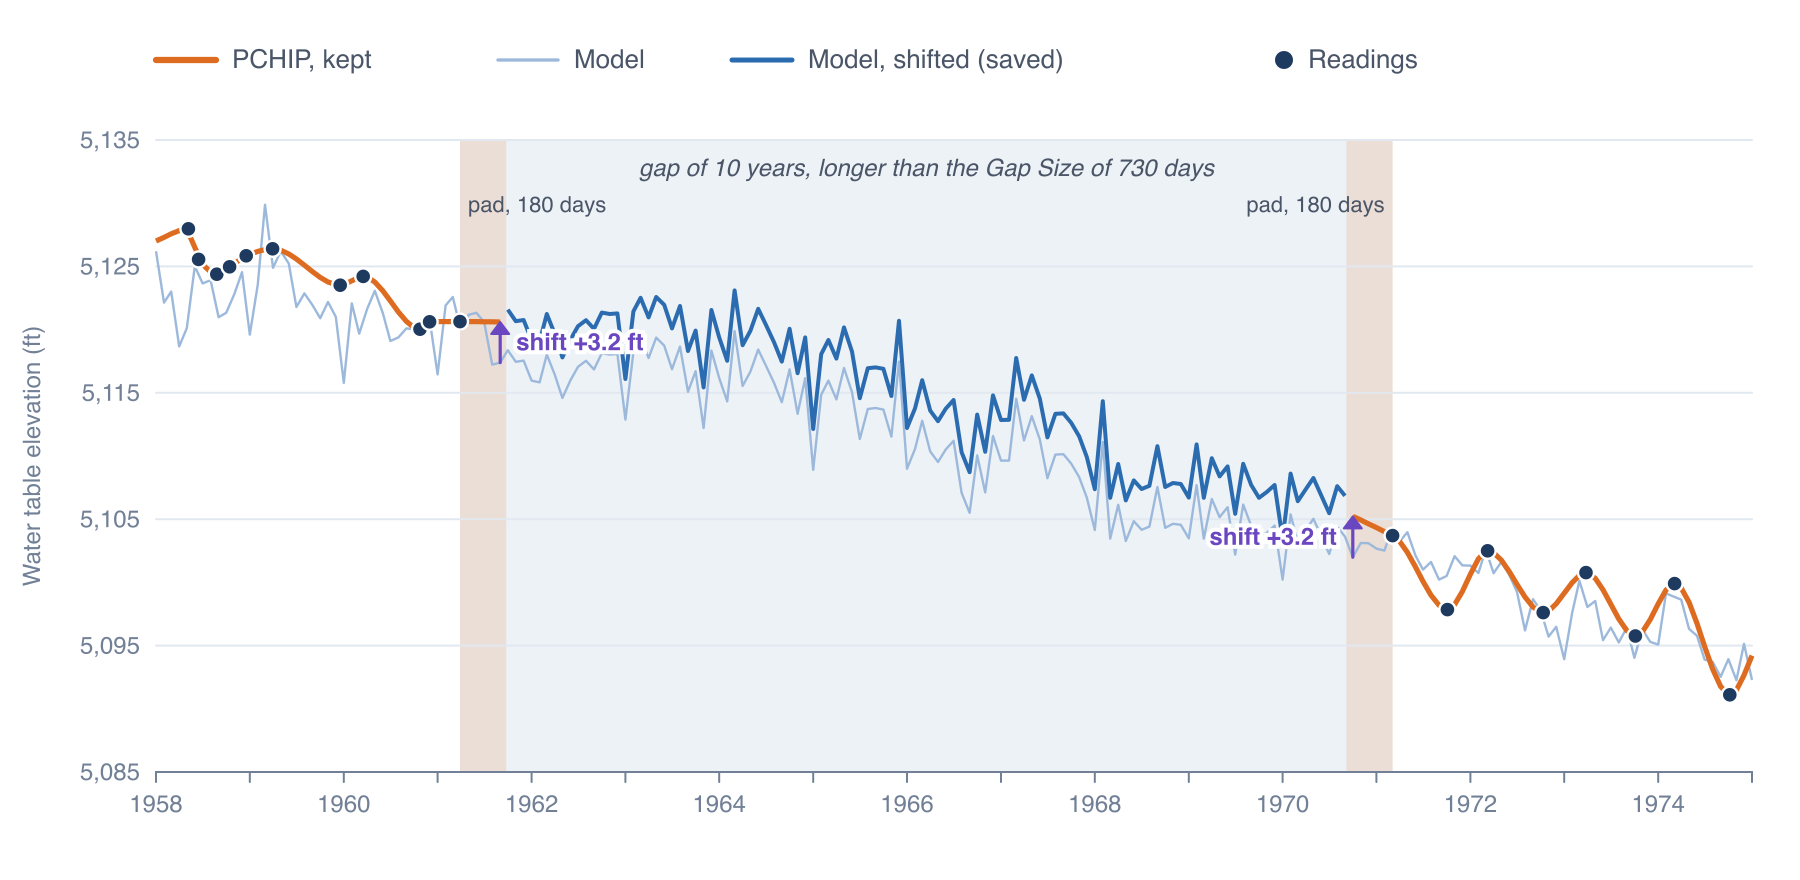
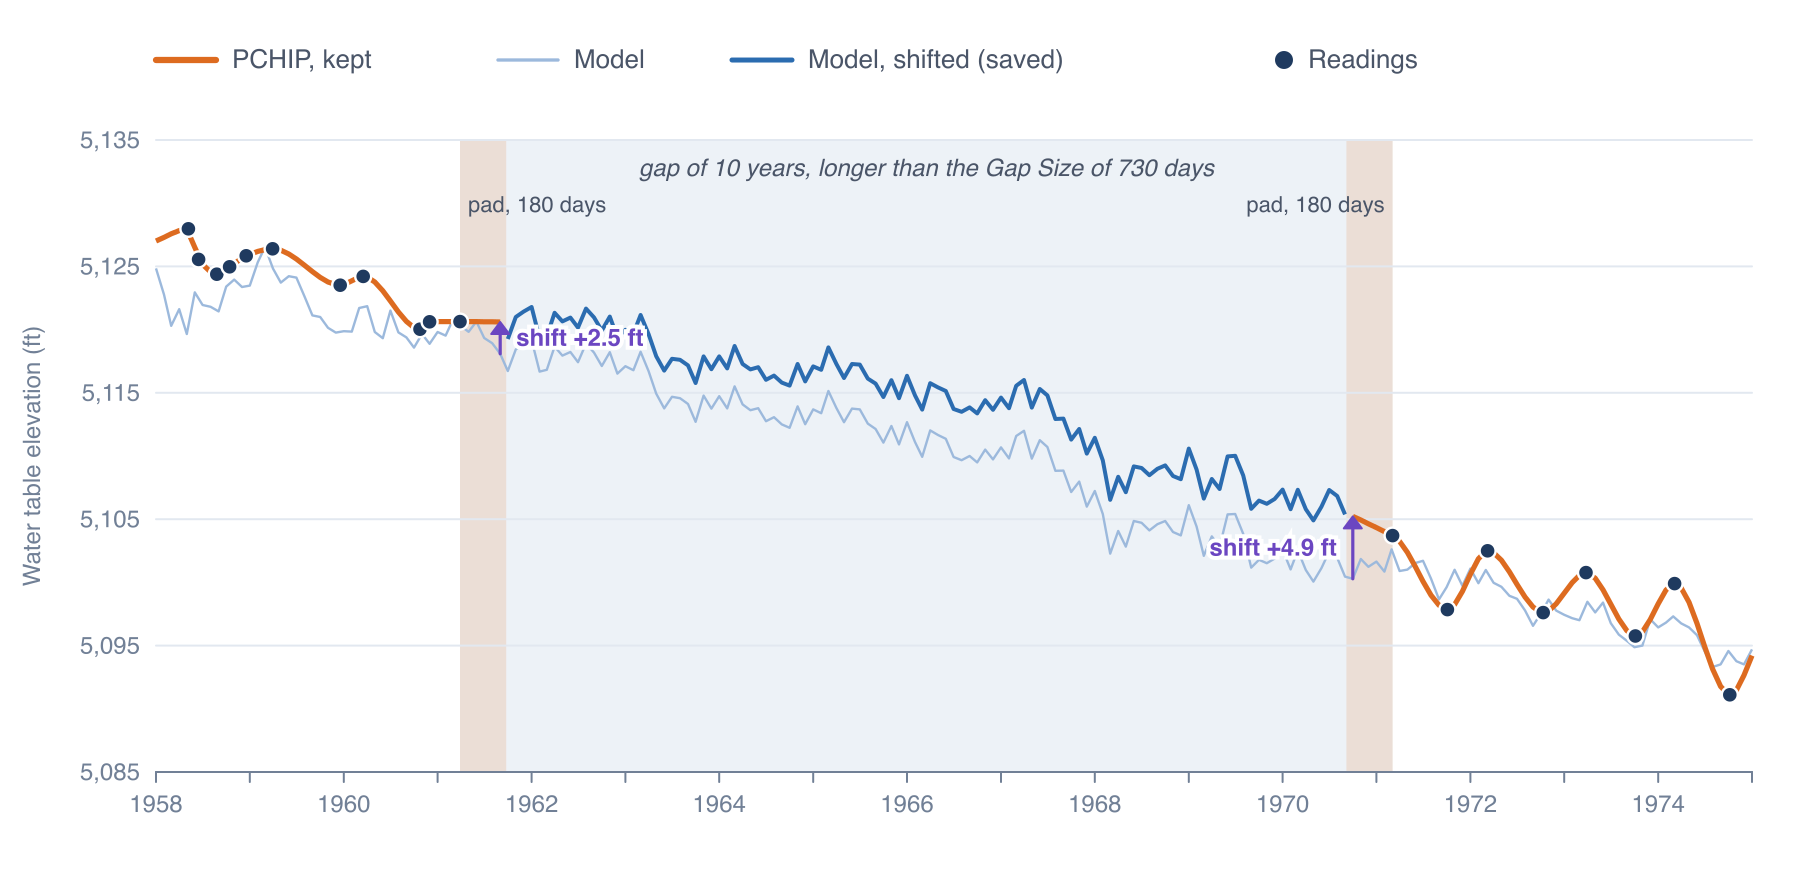
Part 4: each well's model is the average of five ELMs
Follows decision 83a (aquiferx 8bb8124, 9c47777).

- Gaps page: the model is five ELMs averaged; two runs now differ by over
  1.2 ft at half the wells (3.1 ft with one ELM); the hold-out table gives
  the app's model (five averaged and shifted): 48%, 37%, 36% of wells
  closer than PCHIP over 3-, 5- and 10-year stretches inside a record.
- Method page: the average in the ELM's formula; the check fits five too;
  "Each run draws new weights" gives one and five fits; the steps,
  roughness, 3ddc- 1 shifts and Sample Data check table from the rebuilt
  models.
- Results and running pages: 3ddc- 1's new R², RMSE and check; Get Info's
  fit count; the run now takes a little over two minutes on Escalante.
- Gap figure and the two chart screenshots from the rebuilt model.

Claude-Session: https://claude.ai/code/session_01Vb5FMgUjLz9pmhJvE6MAsm

Changed region(s): [[0.0933, 0.2761, 0.84, 0.675], [0.84, 0.675, 0.9333, 0.7364], [0.9333, 0.7364, 0.9956, 0.767]]

diff --git a/docs/aquiferx/imputation/method.en.md b/docs/aquiferx/imputation/method.en.md
@@ -89,11 +89,15 @@ $$
 solved in one step by Cholesky factorization. The penalty *λ* keeps the weights small. Without it, a unit that is active in only one or
 two training months but in many months of a gap could take a large weight to fit those months and send the gap's values far off.
 
-The fitted model gives a value for every month of the span, which is put back in the well's units:
+The fitted ELM gives a value for every month of the span, which is put back in the well's units. The app fits five ELMs to each
+well, each with its own random **W**<sub>j</sub> and **b**<sub>j</sub> and so its own **β**<sub>j</sub>, and the well's model is their
+average:
 
 $$
-e(m) = \mu + \sigma\, \mathbf{h}(m)^\mathsf{T} \boldsymbol{\beta}
+e(m) = \mu + \frac{\sigma}{5} \sum_{j=1}^{5} \mathbf{h}_j(m)^\mathsf{T} \boldsymbol{\beta}_j
 $$
+
+Averaging narrows how much the model changes from one run to the next (see [Each run draws new weights](#each-run-draws-new-weights)).
 
 The Python notebook the app's method comes from left the last two hidden units out of the penalty. Since November 2026 the app
 penalizes every unit, because that pair now and then sent a well far off: refitting one Escalante well 500 times, the pair sent it
@@ -111,22 +115,23 @@ v(m) = \begin{cases} p(m) & \text{in a training month} \\ e(m) + d_a + \dfrac{m 
 $$
 
 with *m* − *a* and *b* − *a* counted in months. Before a well's first training month and after its last there is a training month on
-one side only, and the shift is that side's *d* throughout. Within the run the model keeps its rises and falls; the shift moves it as
-a whole, so that it starts where the curve leaves off and ends where the curve picks up. At (C-36-16) 3ddc- 1 the model ran 3.2 ft
-below the curve in September 1961 and again in October 1970, so the nine years between are raised by 3.2 ft. In the well's 1990s gap
-it ran 4.7 ft above the curve at the start and 0.5 ft above at the end, so that stretch is lowered by 4.7 ft, easing to 0.5 ft.
+one side only, and the shift is that side's *d* throughout. Within the run the model keeps its rises and falls; the shift moves it as a
+whole, so that it starts where the curve leaves off and ends where the curve picks up. At (C-36-16) 3ddc- 1 the model ran 2.5 ft below
+the curve in September 1961 and 4.9 ft below it in October 1970, so the nine years between are raised by 2.5 ft at the start, growing
+to 4.9 ft at the end. In the well's 1990s gap it ran 2.8 ft above the curve at the start and 0.5 ft above at the end, so that stretch
+is lowered by 2.8 ft, easing to 0.5 ft.
 
 Without the shift the series would step by the model's error wherever it passes between PCHIP and the ELM: at the 396 such places in
-the Escalante model, by 1.3 ft at the median and up to 38 ft. With it, the change at those places is the model's own change over
-that month, a median of 0.7 ft and at most 17 ft. In the hold-out test (see
+the Escalante model, by 1.2 ft at the median and up to 36 ft. With it, the change at those places is the model's own change over
+that month, a median of 0.5 ft and at most 15 ft. In the hold-out test (see
 [Gaps in Well Records](gaps.md#how-close-the-filled-values-come)) the shift also brought the filled values a little closer to the
 hidden readings, for every length of hidden stretch.
 
-Across Escalante the model's line is rougher than the PCHIP curve: the median change from one month to the next is 0.3 ft for the
-model and 0.2 ft for PCHIP, and at 3ddc- 1 it is 1.6 ft for the model, the zigzag in the figure above. Most of it comes from the
+Across Escalante the model's line is rougher than the PCHIP curve: the median change from one month to the next is 0.24 ft for the
+model and 0.17 ft for PCHIP, and at 3ddc- 1 it is 0.8 ft for the model, the zigzag in the figure above. Most of it comes from the
 twelve month indicators, which let the model draw a pattern over the calendar year and repeat it every year, and from the month's own
-soil moisture. Refitting the Escalante wells without the month indicators halves the model's typical change from one month to the
-next, and without the month's soil moisture as well it is smoother than the PCHIP curve. In the hold-out test, leaving out the month
+soil moisture. Refitting the Escalante wells with a single ELM each and without the month indicators halves the model's typical
+change from one month to the next, and without the month's soil moisture as well it is smoother than the PCHIP curve. In the hold-out test, leaving out the month
 indicators brought the filled values closer to the hidden readings only over 10-year stretches inside a record, and left them further
 off in the other tests.
 
@@ -144,8 +149,8 @@ $$
 
 They measure how closely the model reproduces the months it learned from. With 500 hidden units it follows even a short record
 closely: in Escalante, the 44 wells with fewer than two years of training months have a median R² of 0.93, and the four trained on 6 months
-reach 0.91 to 0.95, with RMSEs of 0.04 to 0.12 ft. A high R² says little about the values in the gaps: on readings hidden from the
-fit, the same models missed by two to three times their RMSE.
+reach 0.93, with RMSEs of 0.03 to 0.15 ft. A high R² says little about the values in the gaps: on readings hidden from the
+fit, the same models missed by about twice their RMSE or more.
 
 ## The hidden-readings check
 
@@ -155,8 +160,8 @@ Each run tests every well it can on readings left out of the fit:
    if that is longer, so that the model still fills at least a year of it.
 2. The well is checked when it has at least 5 readings before the stretch and 2 after it, and at least 3 of the hidden readings fall
    in months the model fills.
-3. The training months are found from the other readings, as above, and a new ELM is fitted to them, with its own random weights,
-   and shifted as in the saved series.
+3. The training months are found from the other readings, as above, and a new model is fitted to them, again the average of five
+   ELMs with their own random weights, and shifted as in the saved series.
 4. Each hidden reading in the months the model fills is compared with the shifted model, read on a straight line between the two
    months around it, and with the PCHIP curve through the other readings, which crosses the hidden stretch.
 
@@ -173,10 +178,10 @@ Sample Data models:
 
 | Aquifer | Wells modeled | Wells checked | Model closer | Median RMSE, model | Median RMSE, PCHIP |
 |---|--:|--:|--:|--:|--:|
-| Escalante Valley-Beryl-Enterprise | 159 | 72 | 25 | 3.75 ft | 2.64 ft |
-| East Shore Area | 163 | 89 | 30 | 4.17 ft | 3.78 ft |
-| Central Sevier Valley | 80 | 20 | 10 | 2.00 ft | 1.87 ft |
-| Williamson | 21 | 15 | 5 | 2.70 ft | 2.37 ft |
+| Escalante Valley-Beryl-Enterprise | 159 | 72 | 28 | 3.51 ft | 2.64 ft |
+| East Shore Area | 163 | 89 | 33 | 4.10 ft | 3.78 ft |
+| Central Sevier Valley | 80 | 20 | 11 | 1.64 ft | 1.87 ft |
+| Williamson | 21 | 15 | 5 | 2.81 ft | 2.37 ft |
 
 The check covers the middle of a record, where PCHIP is the alternative. How the model does past the end of a record, where it has
 to extend the readings, is in the test in [Gaps in Well Records](gaps.md#how-close-the-filled-values-come). The check's fit draws its
@@ -186,8 +191,10 @@ own weights, so the result is a sample of how the saved model behaves, and a sec
 
 An ELM draws **W** and **b** at random and never adjusts them; only **β** is fitted, in one step. Every run draws them afresh, so the
 same aquifer and settings give a different model of each well, with somewhat different values in the gaps and slightly different R²
-and RMSE. Between two runs on Escalante, the median change in a gap month was 0.2 ft; the largest change at each well was over
-3.1 ft at half the wells and over 12 ft at one in ten.
+and RMSE. The average of five ELMs varies less than one ELM does. Between two runs on Escalante with one ELM per well, the median
+change in a gap month was 0.2 ft, and the largest change at each well was over 3.1 ft at half the wells and over 12 ft at one in
+ten. With the average of five, as the app now fits, the median change in a gap month was 0.09 ft, and the largest change at each
+well over 1.2 ft at half the wells and over 5.6 ft at one in ten.
 
 ## References
 

diff --git a/docs/aquiferx/imputation/gaps.en.md b/docs/aquiferx/imputation/gaps.en.md
@@ -21,14 +21,15 @@ change from one map to the next comes from wells joining and leaving.
 **Impute Gaps** gives each well of an aquifer a series of monthly water levels covering December 1957 to the latest month of the soil
 moisture record. Where the readings are close together, a month's value is the PCHIP curve on the first of the month. In a gap longer
 than a limit you set, two years to start with, and before a well's first reading and after its last, the value comes from a model of
-the well: an extreme learning machine (ELM), a kind of neural network that trains in a single step. Each well gets its own, trained on
-the well's record to relate its water level to soil moisture in the aquifer's area, the year and the month. In each stretch it fills,
+the well: an extreme learning machine (ELM), a kind of neural network that trains in a single step. Each well gets its own, the
+average of five ELMs trained on the well's record to relate its water level to soil moisture in the aquifer's area, the year and the
+month. In each stretch it fills,
 the model is shifted to meet the PCHIP curve at both ends, so the series carries on without a jump where one hands over to the other.
 
 An ELM trains in one step because the weights of its hidden layer are drawn at random and only its output is fitted. Each run draws
 new weights and so builds a new model of each well. Two runs give the same values in the months that follow PCHIP and different values
-in the gaps: between two runs on Escalante, half the wells changed by more than 3.1 ft somewhere in their gaps, and one in ten by more
-than 12 ft.
+in the gaps, and averaging five ELMs narrows the difference: between two runs on Escalante, half the wells changed by more than 1.2 ft
+somewhere in their gaps, and one in ten by more than 5.6 ft, where a single ELM per well gave 3.1 ft and 12 ft.
 
 The series are saved together as a model of the aquifer, which you can open on the chart (see [Reading the Results](results.md)) and
 use in place of the readings for water table maps (Part 5). In Escalante the model covers 159 wells, and almost three quarters of
@@ -52,20 +53,19 @@ record or from the end, ran the method on the rest, and measured the RMSE of the
 middle of a record the comparison is the PCHIP curve across the hidden stretch; at the end, where there is no curve, it is the last
 reading held level.
 
-| Hidden stretch | Wells | PCHIP across it, or the last reading | The model, shifted | Wells where the model came closer |
+| Hidden stretch | Wells | PCHIP across it, or the last reading | The model | Wells where the model came closer |
 |---|--:|--:|--:|--:|
-| 3 years, middle of the record | 217 | 2.1 ft | 2.7 ft | 44% |
+| 3 years, middle of the record | 217 | 2.1 ft | 2.6 ft | 48% |
 | 5 years, middle | 202 | 2.9 ft | 3.6 ft | 37% |
-| 10 years, middle | 163 | 3.4 ft | 5.2 ft | 31% |
-| 3 years, end of the record | 243 | 3.4 ft | 3.2 ft | 42% |
-| 5 years, end | 241 | 4.2 ft | 4.9 ft | 45% |
-| 10 years, end | 203 | 6.4 ft | 6.6 ft | 43% |
+| 10 years, middle | 163 | 3.4 ft | 4.8 ft | 36% |
+| 3 years, end of the record | 243 | 3.4 ft | 3.1 ft | 43% |
+| 5 years, end | 241 | 4.2 ft | 4.8 ft | 46% |
+| 10 years, end | 203 | 6.4 ft | 6.6 ft | 45% |
 
-The RMSEs are medians over the wells. Inside a record, the PCHIP curve came closer to the hidden readings than the model at most
+The model is the app's: five ELMs averaged and shifted to meet the curve. The RMSEs are medians over the wells. Inside a record, the PCHIP curve came closer to the hidden readings than the model at most
 wells, and more so the longer the stretch; past the end of a record, the model did about as well as holding the last reading. Central
 Sevier Valley was the exception: there the two came out about even, and with 10-year stretches the model was closer. A heavier
-penalty λ, fewer hidden units, the average of several runs, and a plain linear fit of the same inputs all left the model short of
-PCHIP inside the record.
+penalty λ, fewer hidden units and a plain linear fit of the same inputs all left the model short of PCHIP inside the record.
 
 These are four aquifers, three of them in Utah, and the model may do better where water levels follow wet and dry years more closely.
 The check each run makes gives the same comparison for your own wells.
@@ -82,13 +82,13 @@ after its last, the model stretches a relationship learned from other years, som
 
 - **R² and RMSE score the model on the months it was trained on.** They compare it with the PCHIP values it was fitted to, so they
   show how well it reproduces those months (see [How the Model Works](method.md#the-fit-statistics)). With 500 adjustable weights it
-  can reproduce almost any record: in Escalante the median R² is 0.957, and wells with only 6 months of record score above 0.9.
-  On readings they had not seen, the same fits missed by two to three times their RMSE. The hidden-readings check measures that.
+  can reproduce almost any record: in Escalante the median R² is 0.955, and wells with only 6 months of record score above 0.9.
+  On readings they had not seen, the same fits missed by about twice their RMSE or more. The hidden-readings check measures that.
 - **The model's line zigzags.** Its twelve month inputs let it draw a seasonal pattern, which it repeats in every year it fills, and
   the month's own soil moisture adds swings of its own. More than half of the years in Escalante's modeled wells have a single
-  reading, so most records hold little of a real seasonal cycle for it to learn. Its value changes about twice as much from one month
-  to the next as the PCHIP curve's; refitted without the month inputs it is half as rough, though in most tests no closer to the
-  hidden readings. A moving average, on the chart or in Spatial Analysis, evens it out.
+  reading, so most records hold little of a real seasonal cycle for it to learn. Its value changes about 1.4 times as much from one month
+  to the next as the PCHIP curve's. A single ELM refitted without the month inputs is half as rough, though in most tests no closer
+  to the hidden readings. A moving average, on the chart or in Spatial Analysis, evens it out.
 
 Treat the filled values as estimates. Look at the hidden-readings check in Get Info, and on the chart for the wells that matter most
 to you; where PCHIP came closer, maps from the readings may serve better than maps from the model. Compare the model with the readings

diff --git a/docs/aquiferx/imputation/results.en.md b/docs/aquiferx/imputation/results.en.md
@@ -24,7 +24,7 @@ blue line runs along the red one, you can see how closely the model follows the 
 model's guess.
 
 (C-36-16) 3ddc- 1 in Escalante was read 82 times from 1953 to 2026, with gaps from 1961 to 1971 and from 1992 to 1996. Its model has
-an R² of 0.996 and an RMSE of 2.24 ft, and over the training months the blue line keeps close to the red, a few feet either side,
+an R² of 0.998 and an RMSE of 1.75 ft, and over the training months the blue line keeps close to the red, a few feet either side,
 rougher than the curve through the readings.
 
 ## The saved series
@@ -34,7 +34,8 @@ rougher than the curve through the readings.
 With **Combined** checked, the chart shows the series the model saved: red where it follows PCHIP and blue where it takes the ELM,
 shifted to meet the red at each end (see [How the Model Works](method.md#the-saved-series)). At 3ddc- 1 the blue fills October 1961 to
 September 1970 and October 1992 to September 1995, and the months of 2026 after the final reading. Next to the blue line of the
-other view, the 1960s stretch is raised by 3.2 ft, and the 1990s stretch lowered by 4.7 ft at its start, easing to 0.5 ft at its end.
+other view, the 1960s stretch is raised by 2.5 ft at its start, growing to 4.9 ft at its end, and the 1990s stretch lowered by
+2.8 ft, easing to 0.5 ft.
 
 The chart's controls change while a model is on the chart:
 
@@ -52,14 +53,14 @@ made the model, with a line for each well and its check.
 ## The hidden-readings check
 
 The last item in the band compares the model with readings it never saw (see
-[How the Model Works](method.md#the-hidden-readings-check)). For 3ddc- 1 it reads *Hidden readings: model 3.63 · PCHIP 2.04 ft*:
+[How the Model Works](method.md#the-hidden-readings-check)). For 3ddc- 1 it reads *Hidden readings: model 2.31 · PCHIP 2.04 ft*:
 the run hid five years of the well's record, the five readings from March 1979 to March 1983, fitted the well again without them,
 and filled the stretch both with the model and with the PCHIP curve across it. The numbers are the RMSE of each against the hidden
 readings, and pointing at the item gives the dates and how many readings were scored. A well with too few readings around the middle
 of its record shows *No hidden-reading check*.
 
 Get Info gives the same comparison for the aquifer: how many wells were checked, at how many the model came closer than PCHIP, and
-the median RMSE of each. For Escalante, the model came closer at 25 of the 72 wells checked, with a median RMSE of 3.75 ft against
+the median RMSE of each. For Escalante, the model came closer at 28 of the 72 wells checked, with a median RMSE of 3.51 ft against
 PCHIP's 2.64 ft.
 
 The check speaks to the gaps inside a record. Where PCHIP came out closer at most wells, the readings' own curve, which maps made with
@@ -72,8 +73,8 @@ The three dots beside a model open its menu:
 
 - **Edit** renames it, and its file with it.
 - **Get Info** shows the model's title, code, aquifer and date; its settings, including the span of months it covers (**Model
-  Months**), the hidden units and λ; how many wells it models, with their average R² and RMSE; and the hidden-readings check for the
-  aquifer.
+  Months**), the hidden units, λ and the number of ELM fits averaged; how many wells it models, with their average R² and RMSE;
+  and the hidden-readings check for the aquifer.
 - **Delete** removes it, after you confirm.
 
 Sample Data models can be opened and inspected but not renamed or deleted.

diff --git a/docs/aquiferx/imputation/running.en.md b/docs/aquiferx/imputation/running.en.md
@@ -46,12 +46,13 @@ all of them are the model's.
 
 The second step asks for a **Title**: letters, numbers, spaces, hyphens and underscores. Under it is the file the model will be saved
 in, such as `escalante_valley_beryl_enterprise/model_wte_elm.json`, with a warning if the aquifer already has a model by that name.
-**Options Summary** repeats the settings and the model, an ELM with 500 hidden units and λ = 100, which are fixed.
+**Options Summary** repeats the settings and the model, the average of five ELMs with 500 hidden units and λ = 100, which are
+fixed.
 
 **Run Imputation** starts the run, and a progress bar and a log follow it: the soil moisture months, how many wells qualified, each
 well dropped and why, and a line for each well modeled with its R², RMSE, number of training months and hidden-readings check (see
 [Reading the Results](results.md#the-hidden-readings-check)). The work runs in the
-background, so the page stays responsive, and Escalante's 159 wells took about a minute. **Cancel** stops the run and goes back to the
+background, so the page stays responsive, and Escalante's 159 wells took a little over two minutes. **Cancel** stops the run and goes back to the
 first step without saving anything.
 
 When the run ends, the wizard reports how many wells were modeled, the number of monthly values saved, the hidden-readings check for
